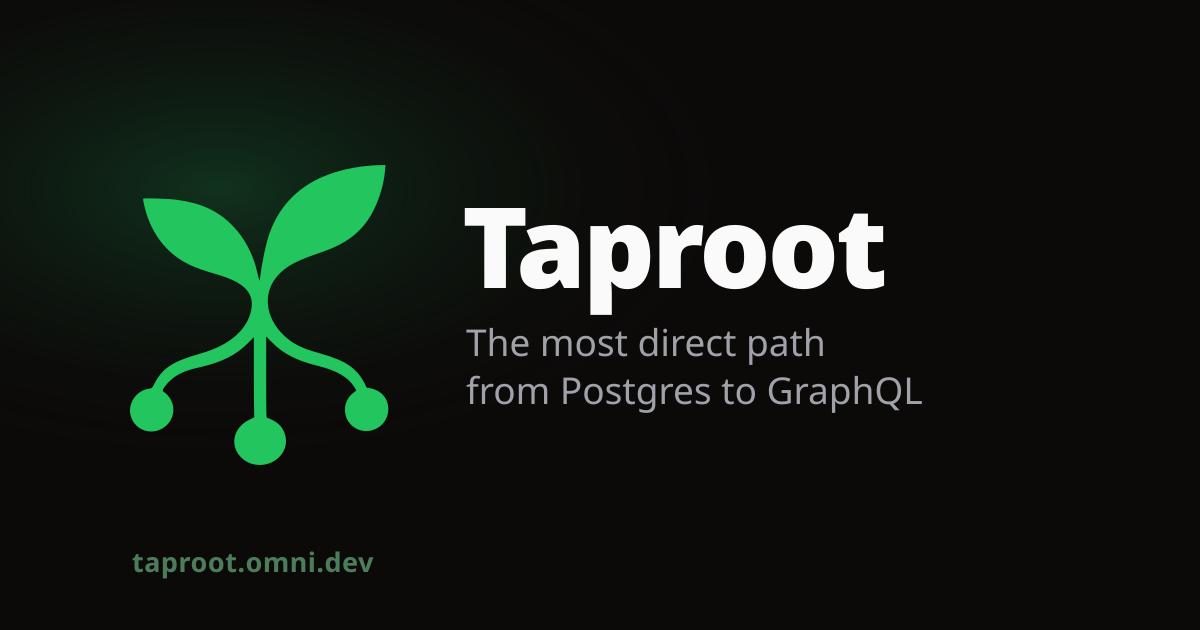
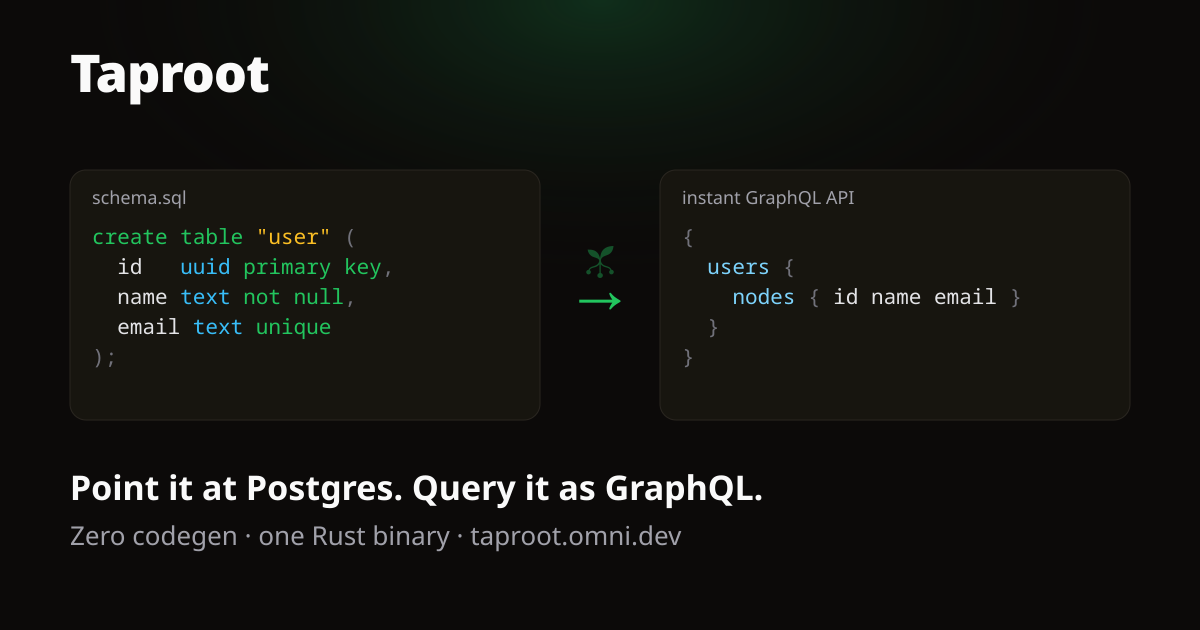
feat: refresh landing visuals and OG
- hero: 'Tap into Postgres. / GraphQL, straight from the source.'
- new social card (schema.sql -> GraphQL, colored syntax, seedling above the arrow)
- match the landing code-block palette to the OG (green keywords, sky
  types/fields, amber strings); fix the showcase query (id, not nodeId)
- default to the dark theme
- favicon is now the colored seedling on a transparent background
- drop em dashes from hero and feature copy

diff --git a/src/routes/index.tsx b/src/routes/index.tsx
@@ -117,16 +117,16 @@ function HeroSection() {
         </div>
 
         <h1 className="font-bold text-4xl leading-tight tracking-tight sm:text-5xl lg:text-6xl">
-          <span className="block">The most direct path</span>
+          <span className="block">Tap into Postgres.</span>
           <span className="block bg-gradient-to-br from-primary to-secondary bg-clip-text pb-2 text-transparent">
-            from Postgres to GraphQL
+            GraphQL, straight from the source.
           </span>
         </h1>
 
         <p className="max-w-xl text-lg text-muted-foreground md:text-xl">
           Point Taproot at your PostgreSQL database and it serves a full GraphQL
-          API — queries, filtering, pagination, mutations, subscriptions, and
-          row-level security — with zero codegen.
+          API (queries, filtering, pagination, mutations, subscriptions, and
+          row-level security) with zero codegen.
         </p>
       </div>
 
@@ -165,7 +165,7 @@ const features: Feature[] = [
     icon: Wand2,
     title: "Zero codegen",
     description:
-      "Introspects your tables, columns, relationships, and enums at startup and serves a live, queryable schema — no generated files to maintain.",
+      "Introspects your tables, columns, relationships, and enums at startup and serves a live, queryable schema, with no generated files to maintain.",
   },
   {
     icon: FileCode,

diff --git a/src/components/landing/CodeBlock.tsx b/src/components/landing/CodeBlock.tsx
@@ -15,14 +15,14 @@ interface Rule {
  * zinc for comments and punctuation.
  */
 const C = {
-  kw: "text-primary",
-  str: "text-emerald-400",
+  kw: "text-green-500",
+  str: "text-amber-400",
   com: "text-zinc-500",
-  num: "text-amber-300/90",
+  num: "text-sky-400",
   punc: "text-zinc-500",
   flag: "text-zinc-500",
   ok: "text-emerald-400",
-  def: "text-zinc-300",
+  def: "text-zinc-200",
 };
 
 const rules: Record<Lang, Rule[]> = {
@@ -74,6 +74,9 @@ const rules: Record<Lang, Rule[]> = {
     { re: /#[^\n]*/y, cls: C.com },
     { re: /"(?:[^"\\]|\\.)*"/y, cls: C.str },
     { re: /\b(query|mutation|subscription|fragment|on)\b/y, cls: C.kw },
+    // field or argument names that open a selection or args list, colored like
+    // the OG preview's sky fields
+    { re: /[a-zA-Z_]\w*(?=\s*[({])/y, cls: C.num },
     { re: /@\w+/y, cls: C.flag },
     { re: /\b\d+\b/y, cls: C.num },
     { re: /[{}()[\]:!]/y, cls: C.punc },

diff --git a/src/server/functions/theme.ts b/src/server/functions/theme.ts
@@ -8,7 +8,7 @@ const storageKey = "_preferred-theme";
 export type Theme = z.infer<typeof postThemeValidator>;
 
 export const getThemeServerFn = createServerFn().handler(
-  async () => (getCookie(storageKey) || "light") as Theme,
+  async () => (getCookie(storageKey) || "dark") as Theme,
 );
 
 export const setThemeServerFn = createServerFn({ method: "POST" })

diff --git a/src/components/landing/Showcase.tsx b/src/components/landing/Showcase.tsx
@@ -17,7 +17,7 @@ const GQL = `query {
     filter: { name: { includesInsensitive: "al" } }
   ) {
     nodes {
-      nodeId
+      id
       name
       email
     }
